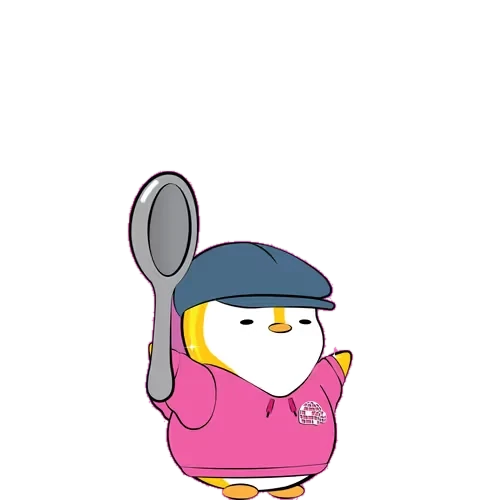
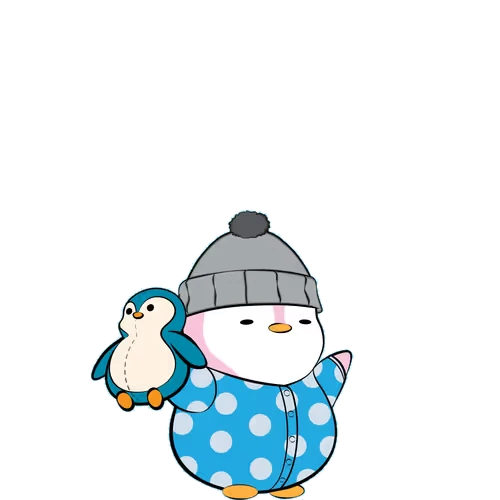
v1.0.10：替换 8 张素材并把皮肤包重新内嵌（安装包 3.2MB）
- 胖企鹅 1/4/7/8/12/14/27 与阿蟹 26 替换为用户指定作品，漫水填充抠图（透明 67%-85%）。
- 抠图后 packs-seed 仅 2.2MB，重新内嵌：安装包 1.2MB → 3.2MB，装完即有三套皮肤包。
- 首次启动自动释放到数据目录；已有皮肤包的用户不受影响。

验证：NSIS 3.20MB / MSI 3.72MB；8 张替换图透明比例均正常。
回滚：git revert 本提交。

Changed region(s): [[0.18, 0.33, 0.72, 1.0]]

diff --git a/src-tauri/src/main.rs b/src-tauri/src/main.rs
@@ -35,6 +35,46 @@ fn packs_root() -> PathBuf {
     data_root().join("packs")
 }
 
+
+/// 首次运行时把安装包内自带的皮肤包释放到用户数据目录
+fn seed_packs(app: &tauri::AppHandle) {
+    use tauri::Manager;
+    let target = packs_root();
+    let has_any = fs::read_dir(&target)
+        .map(|mut it| it.any(|e| e.map(|e| e.path().is_dir()).unwrap_or(false)))
+        .unwrap_or(false);
+    if has_any {
+        return;
+    }
+    let Ok(res) = app
+        .path()
+        .resolve("packs-seed", tauri::path::BaseDirectory::Resource)
+    else {
+        return;
+    };
+    if !res.is_dir() {
+        return;
+    }
+    let _ = fs::create_dir_all(&target);
+    if let Ok(entries) = fs::read_dir(&res) {
+        for e in entries.flatten() {
+            let src = e.path();
+            if !src.is_dir() {
+                continue;
+            }
+            let dst = target.join(e.file_name());
+            let _ = fs::create_dir_all(&dst);
+            if let Ok(files) = fs::read_dir(&src) {
+                for f in files.flatten() {
+                    if f.path().is_file() {
+                        let _ = fs::copy(f.path(), dst.join(f.file_name()));
+                    }
+                }
+            }
+        }
+    }
+}
+
 #[tauri::command]
 fn force_refresh(folder: String) -> Result<(), String> {
     let dir = assert_folder(&folder)?;
@@ -389,6 +429,10 @@ fn open_in_explorer(path: String) -> Result<(), String> {
 fn main() {
     tauri::Builder::default()
         .plugin(tauri_plugin_dialog::init())
+        .setup(|app| {
+            seed_packs(app.handle());
+            Ok(())
+        })
         
         .invoke_handler(tauri::generate_handler![
             apply_icon,

diff --git a/README.md b/README.md
@@ -120,3 +120,8 @@ UPDATEIMAGE / 重建 desktop.ini / ASSOCCHANGED）都无法稳定即时重绘—
 - 已自带透明通道的（Axie）保留原样。
 
 全部离线处理，成品是带透明通道的 WebP，应用端无额外依赖。
+
+## 皮肤包内嵌（v1.0.10）
+
+抠图后的三套皮肤包只有 **2.2 MB**，已重新内嵌进安装包：安装包 3.2 MB，首次启动自动释放到数据目录，
+无需再单独下载。（Release 里仍保留 `FolderDressup-packs.zip` 作为备份获取方式。）
